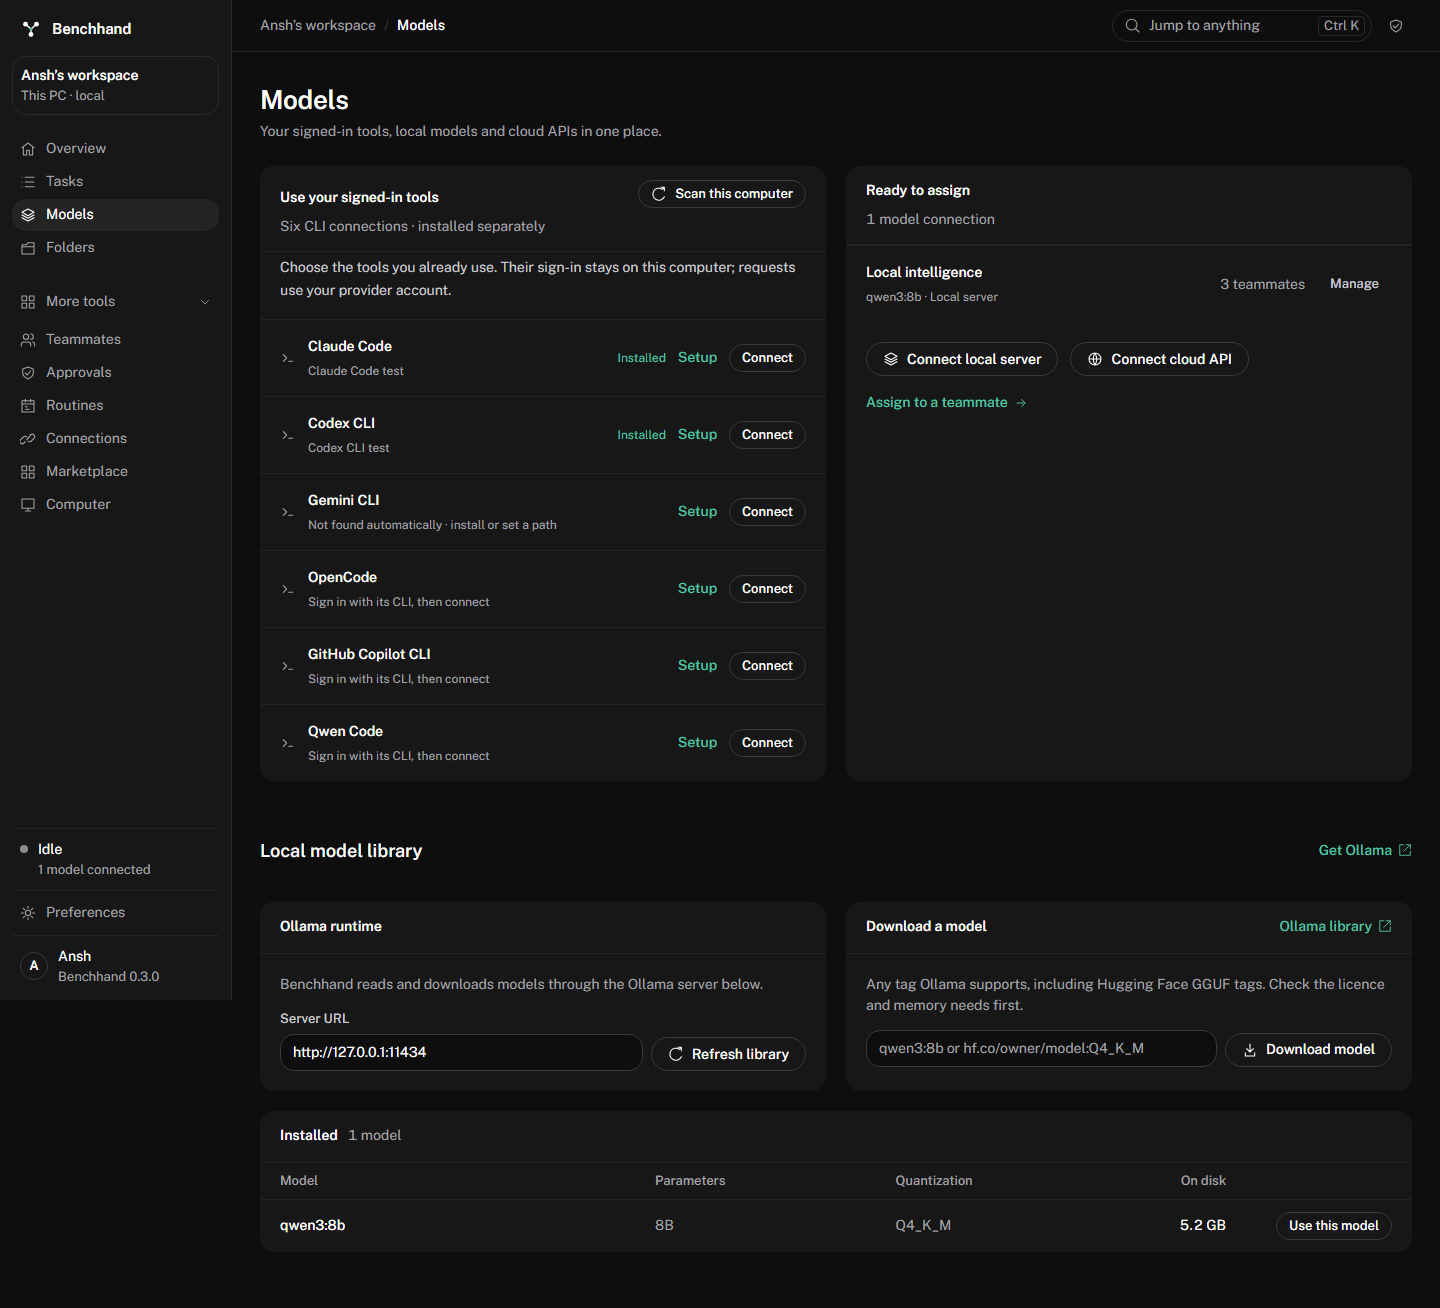
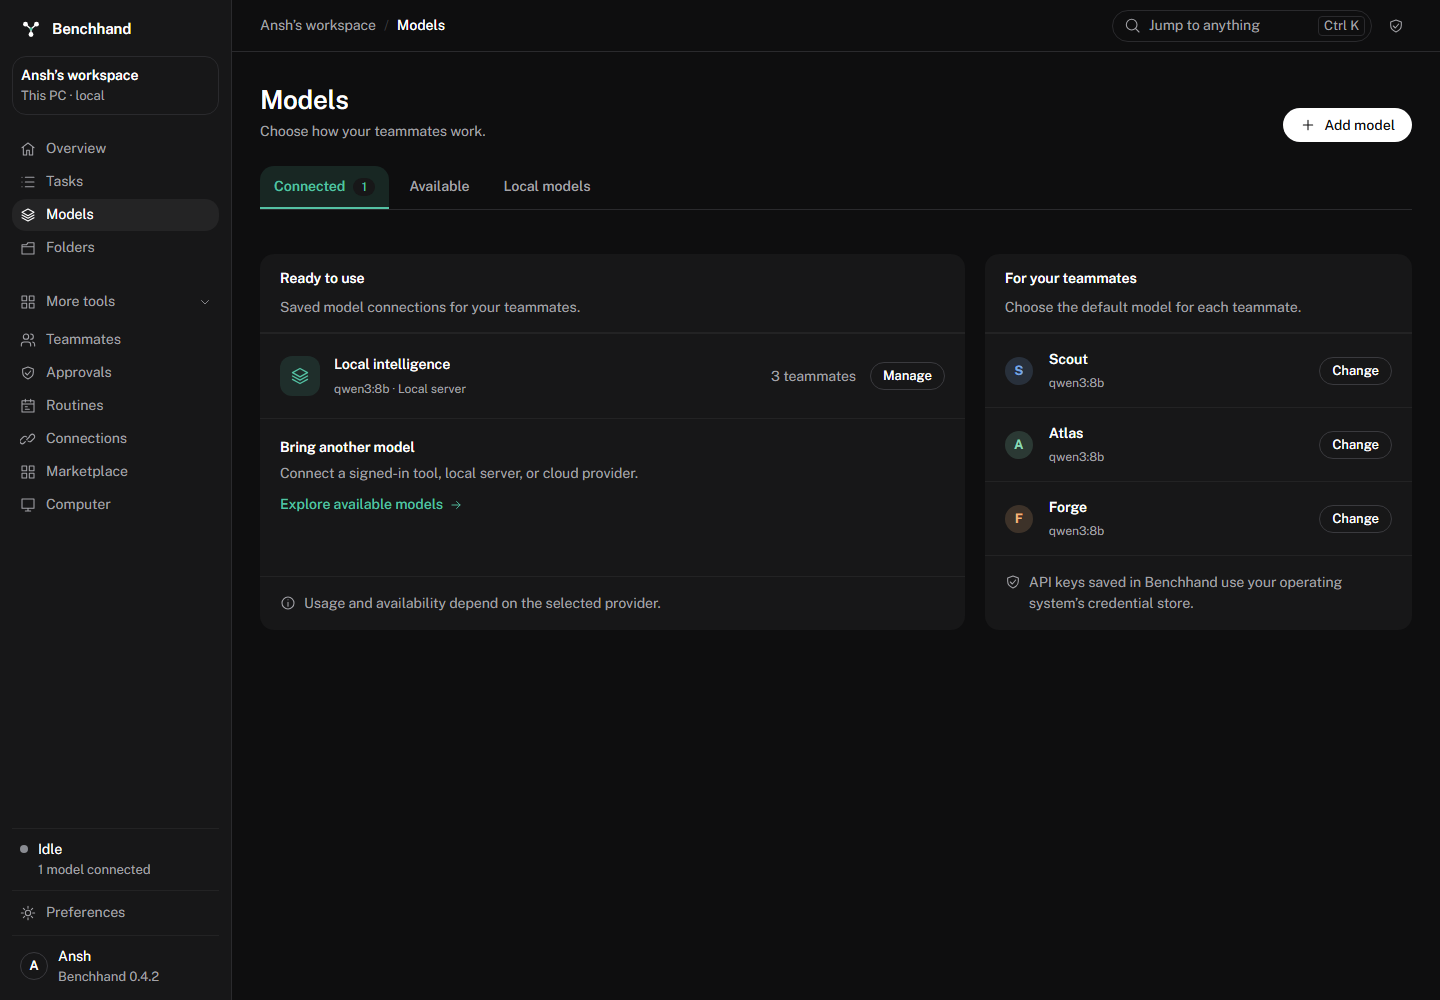
Make model connections and assignments easier to navigate

diff --git a/frontend/app.js b/frontend/app.js
@@ -90,7 +90,8 @@ let data = {
   modelHost = "http://127.0.0.1:11434",
   installedModels = [],
   libraryLoaded = false,
-  libraryError = "";
+  libraryError = "",
+  modelTab = "connected";
 let modelClients = [], clientScan = "idle", clientError = "", activityFilter = "all", moreTools = localStorage.getItem("benchhand-more-tools") === "1";
 const clientNames = { claude: "Claude Code", codex: "Codex CLI", gemini: "Gemini CLI", opencode: "OpenCode", copilot: "GitHub Copilot CLI", qwen: "Qwen Code" };
 const clientDocs = {
@@ -914,8 +915,12 @@ const bytesLabel = (bytes) =>
     ? `${(bytes / 1e9).toFixed(1)} GB`
     : `${Math.round(bytes / 1e6)} MB`;
 function modelsView() {
+  const count = data.connections.filter((c) => c.kind === "model").length;
+  return `${heading("Models", "Choose how your teammates work.", `<button class="button primary" data-action="model-tab" data-tab="available">${icon("plus")} Add model</button>`)}<div class="model-tabs" role="group" aria-label="Model views">${[["connected", `Connected <span class="model-tab-count">${count}</span>`], ["available", "Available"], ["local", "Local models"]].map(([id,label]) => `<button class="model-tab ${modelTab === id ? "active" : ""}" aria-pressed="${modelTab === id}" data-action="model-tab" data-tab="${id}">${label}</button>`).join("")}</div>${modelTab === "connected" ? modelHub() : modelTab === "available" ? availableModels() : modelLibrary()}`;
+}
+function modelLibrary() {
   const downloads = data.downloads || [];
-  return `${heading("Models", "Your signed-in tools, local models and cloud APIs in one place.")}<div class="model-hub">${modelHub()}</div><div class="library-heading"><h2>Local model library</h2><button class="text-button" data-action="external" data-url="https://ollama.com/download">Get Ollama ${icon("external")}</button></div>
+  return `<div class="library-heading"><h2>Local model library</h2><button class="text-button" data-action="external" data-url="https://ollama.com/download">Get Ollama ${icon("external")}</button></div>
   <div class="grid one-one"><section class="panel library-runtime">${section("Ollama runtime")}<p class="subtle">Benchhand reads and downloads models through the Ollama server below.</p><div class="runtime-address"><label class="field"><span>Server URL</span><input id="model-host" type="url" value="${esc(modelHost)}" aria-label="Ollama server URL"></label>${button("load-library", "Refresh library", "refresh", "", "button secondary")}</div></section>
   <section class="panel download-panel">${section("Download a model", "", `<button class="text-button" data-action="external" data-url="https://ollama.com/library">Ollama library ${icon("external")}</button>`)}<p class="subtle">Any tag Ollama supports, including Hugging Face GGUF tags. Check the licence and memory needs first.</p><form id="download-form"><input name="model" aria-label="Model to download" placeholder="qwen3:8b or hf.co/owner/model:Q4_K_M" required maxlength="200">${button("", "Download model", "download", 'type="submit"', "button secondary")}</form></section></div>
   ${downloads.length ? `<section class="panel">${section("Downloads")}<div class="download-list">${downloads.map((d) => `<article class="download-row"><div><strong>${esc(d.model)}</strong><small>${esc(d.status)}${d.total ? ` · <span class="num">${bytesLabel(Number(d.completed))} of ${bytesLabel(Number(d.total))}</span>` : ""}</small>${d.total ? `<progress max="${Number(d.total)}" value="${Number(d.completed)}" aria-label="Download progress"></progress>` : ""}</div>${d.state === "downloading" ? button("cancel-download", "Cancel", "close", `data-id="${esc(d.id)}"`, "button quiet small") : d.state === "completed" ? button("connect-installed", "Use model", "plus", `data-model="${esc(d.model)}"`, "button secondary small") : `<span class="pill canceled">${esc(d.state === "canceled" ? "Canceled" : d.state)}</span>`}</article>`).join("")}</div></section>` : ""}
@@ -1101,9 +1106,20 @@ async function scanModelClients() {
   catch (e) { clientScan = "error"; clientError = String(e); }
   render();
 }
+function modelConnectionType(c) {
+  if (c.config.protocol === "cli") return "Signed-in CLI";
+  try {
+    const host = new URL(c.config.baseUrl).hostname;
+    if (host === "localhost" || host === "[::1]" || /^127\./.test(host)) return "Local server";
+  } catch {}
+  return "API connection";
+}
 function modelHub() {
   const connections = data.connections.filter((c) => c.kind === "model");
-  return `<section class="panel model-clients">${section("Use your signed-in tools", "Six CLI connections · installed separately", button("scan-model-clients", clientScan === "scanning" ? "Scanning…" : "Scan this computer", "refresh", clientScan === "scanning" ? "disabled" : "", "button secondary small"))}<p class="model-intro">Choose the tools you already use. Their sign-in stays on this computer; requests use your provider account.</p><div class="client-list">${Object.entries(clientNames).map(([id, name]) => { const found = modelClients.find((c) => c.provider === id); return `<article class="client-row"><span class="client-name">${icon("terminal")}<span><strong>${name}</strong><small>${found?.installed ? esc(found.version) : clientScan === "scanning" ? "Checking installation…" : found ? "Not found automatically · install or set a path" : "Sign in with its CLI, then connect"}</small></span></span><span class="client-status ${found?.installed ? "available" : ""}">${found?.installed ? "Installed" : ""}</span><span class="client-actions"><button class="text-button small" data-action="open-cli-docs" data-provider="${id}">Setup<span class="visually-hidden"> ${name}</span></button><button class="button secondary small" data-action="connect-cli" data-provider="${id}">Connect<span class="visually-hidden"> ${name}</span></button></span></article>`; }).join("")}</div>${clientError ? `<p class="model-intro" role="alert">${esc(clientError)}</p>` : ""}</section><section class="panel connected-models">${section("Ready to assign", plural(connections.length, "model connection"))}${connections.length ? `<div class="model-connections">${connections.map((c) => `<article class="model-connection"><div><strong>${esc(c.label)}</strong><small>${esc(c.config.model)}${c.config.reasoningEffort && c.config.reasoningEffort !== "default" ? ` · ${esc(c.config.reasoningEffort)} effort` : ""} · ${c.config.protocol === "cli" ? "Signed-in CLI" : /localhost|127\.0\.0\.1/.test(c.config.baseUrl || "") ? "Local server" : "API connection"}</small></div><span class="subtle">${plural(data.bots.filter((b) => b.providerId === c.id).length, "teammate")}</span><button class="button quiet small" data-action="edit-connection" data-id="${esc(c.id)}">Manage</button></article>`).join("")}</div>` : `<p class="panel-empty">Connect a CLI, local server, or cloud API below. Then choose it in a teammate’s settings.</p>`}<div class="model-shortcuts"><button class="button secondary" data-action="connect-model" data-preset="ollama">${icon("model")} Connect local server</button><button class="button secondary" data-action="connect-model" data-preset="openai">${icon("globe")} Connect cloud API</button><button class="text-button" data-action="navigate" data-page="team">Assign to a teammate ${icon("arrow")}</button></div></section>`;
+  return `<div class="model-overview"><section class="panel connected-models">${section("Ready to use", "Saved model connections for your teammates.")}${connections.length ? `<div class="model-connections">${connections.map((c) => `<article class="model-connection"><span class="model-symbol">${icon(modelConnectionType(c) === "Signed-in CLI" ? "terminal" : modelConnectionType(c) === "Local server" ? "model" : "globe")}</span><div><strong>${esc(c.label)}</strong><small>${esc(c.config.model)}${c.config.reasoningEffort && c.config.reasoningEffort !== "default" ? ` · ${esc(c.config.reasoningEffort)} effort` : ""} · ${modelConnectionType(c)}</small></div><span class="subtle model-assigned">${plural(data.bots.filter((b) => b.providerId === c.id).length, "teammate")}</span><button class="button secondary small" data-action="edit-connection" data-id="${esc(c.id)}">Manage</button></article>`).join("")}</div>` : `<div class="model-empty"><p>No models connected yet. Choose a signed-in tool, local server, or cloud API to get started.</p><button class="button secondary" data-action="model-tab" data-tab="available">${icon("plus")} Add a model</button></div>`}${connections.length ? `<div class="model-next"><strong>Bring another model</strong><p>Connect a signed-in tool, local server, or cloud provider.</p><button class="text-button" data-action="model-tab" data-tab="available">Explore available models ${icon("arrow")}</button></div>` : ""}<p class="model-footnote">${icon("info")} Usage and availability depend on the selected provider.</p></section><aside class="panel model-assignments">${section("For your teammates", "Choose the default model for each teammate.")}${data.bots.length ? data.bots.map((b) => `<div class="model-assignment">${avatar(b)}<span><strong>${esc(b.name)}</strong><small>${esc(modelName(b))}</small></span><button class="button secondary small" data-action="edit-bot" data-id="${esc(b.id)}" aria-label="Change model for ${esc(b.name)}">Change</button></div>`).join("") : `<p class="panel-empty">Create a teammate to assign a model.</p>`}<p class="model-footnote">${icon("approvals")} API keys saved in Benchhand use your operating system’s credential store.</p></aside></div>`;
+}
+function availableModels() {
+  return `<div class="available-models"><section class="panel model-clients">${section("Use your signed-in tools", "Installed separately · use your existing sign-in", button("scan-model-clients", clientScan === "scanning" ? "Scanning…" : "Scan this computer", "refresh", clientScan === "scanning" ? "disabled" : "", "button secondary small"))}<p class="model-intro">Choose a tool you already use. Requests use its provider account.</p><div class="client-list">${Object.entries(clientNames).map(([id, name]) => { const found = modelClients.find((c) => c.provider === id); return `<article class="client-row"><span class="client-name">${icon("terminal")}<span><strong>${name}</strong><small>${found?.installed ? esc(found.version) : clientScan === "scanning" ? "Checking installation…" : found ? "Not found automatically · install or set a path" : "Sign in with its CLI, then connect"}</small></span></span><span class="client-status ${found?.installed ? "available" : ""}">${found?.installed ? "Installed" : ""}</span><span class="client-actions"><button class="text-button small" data-action="open-cli-docs" data-provider="${id}">Setup<span class="visually-hidden"> ${name}</span></button><button class="button secondary small" data-action="connect-cli" data-provider="${id}">Connect<span class="visually-hidden"> ${name}</span></button></span></article>`; }).join("")}</div>${clientError ? `<p class="model-intro" role="alert">${esc(clientError)}</p>` : ""}</section><section class="panel model-other">${section("Connect another provider", "Use a local server or an API key.")}<div class="model-shortcuts"><button class="button secondary" data-action="connect-model" data-preset="ollama">${icon("model")} Connect local server</button><button class="button secondary" data-action="connect-model" data-preset="openai">${icon("globe")} Connect cloud API</button></div></section></div>`;
 }
 function activityEvent(event) {
   try { const parsed = JSON.parse(event.message); if (parsed && typeof parsed.kind === "string") return { ...event, ...parsed }; } catch {}
@@ -1269,6 +1285,13 @@ async function handleAction(el) {
       break;
     case "scan-model-clients":
       await scanModelClients();
+      break;
+    case "model-tab":
+      if (["connected", "available", "local"].includes(el.dataset.tab)) {
+        modelTab = el.dataset.tab;
+        render();
+        document.querySelector(`.model-tab[data-tab="${modelTab}"]`)?.focus();
+      }
       break;
     case "open-cli-docs":
       await invoke("open_external", {url:clientDocs[sheet.querySelector("#cli-provider")?.value || el.dataset.provider]});
@@ -1700,6 +1723,7 @@ document.addEventListener("submit", async (event) => {
     if (form.id === "connection-form") {
       await invoke("save_connection", { input: connectionInput() });
       closeSheet();
+      if (page === "models") modelTab = "connected";
       await refresh();
       notify("Connected and verified.");
     } else if (form.id === "bot-form") {

diff --git a/tests/app.spec.js b/tests/app.spec.js
@@ -47,6 +47,7 @@ test("folders connect through the picker, target a task and disconnect without d
 test("Codex models and supported effort are visible, saved and restored", async ({page}) => {
   await nativeFixture(page);
   await page.locator("nav").getByRole("button", {name:"Models",exact:true}).click();
+  await page.getByRole("button", {name:"Available",exact:true}).click();
   await page.getByRole("button", {name:"Connect Codex CLI",exact:true}).click();
   await expect(page.locator("#cli-catalog-status")).toContainText("1 models reported");
   await expect(page.locator("#cli-custom-model")).toBeHidden();
@@ -68,6 +69,7 @@ test("Codex models and supported effort are visible, saved and restored", async 
 test("optional clients remain discoverable and Gemini and Qwen keep client effort defaults", async ({page}) => {
   await nativeFixture(page);
   await page.locator("nav").getByRole("button", {name:"Models",exact:true}).click();
+  await page.getByRole("button", {name:"Available",exact:true}).click();
   await expect(page.locator(".client-row")).toHaveCount(6);
   for(const provider of ["OpenCode","GitHub Copilot CLI","Qwen Code","Gemini CLI"]) {
     await page.getByRole("button", {name:`Connect ${provider}`,exact:true}).click();
@@ -77,9 +79,21 @@ test("optional clients remain discoverable and Gemini and Qwen keep client effor
   }
 });
 
+test("model overview shows assignments and lets a teammate change its model", async ({ page }) => {
+  await nativeFixture(page);
+  await page.locator("nav").getByRole("button", {name:"Models", exact:true}).click();
+  await expect(page.getByRole("heading", {name:"Ready to use", exact:true})).toBeVisible();
+  const assignment = page.locator(".model-assignment").filter({hasText:"Scout"});
+  await expect(assignment).toContainText("qwen3:8b");
+  await assignment.getByRole("button", {name:"Change model for Scout"}).click();
+  await expect(page.getByRole("dialog")).toBeVisible();
+  await expect(page.locator("dialog [name=providerId]")).toHaveValue("model-1");
+});
+
 test("signed-in CLI models connect without copying credentials and remain editable", async ({ page }) => {
   await nativeFixture(page);
   await page.locator("nav").getByRole("button", { name: "Models", exact: true }).click();
+  await page.getByRole("button", {name:"Available",exact:true}).click();
   await expect(page.locator(".client-row").first()).toContainText("Installed");
   await page.getByRole("button", { name: "Connect Claude Code", exact: true }).click();
   await expect(page.locator("dialog [name=secret]")).toHaveCount(0);
@@ -345,7 +359,7 @@ async function nativeFixture(page, { setup = true, connected = true, tools = tru
               os: "windows",
               arch: "x86_64",
               threads: 16,
-              version: "0.3.0",
+              version: "0.4.2",
             },
           };
       const persist = () =>
@@ -1042,6 +1056,7 @@ test("model library downloads, reports progress, cancels, and connects installed
     .locator("nav")
     .getByRole("button", { name: "Models" })
     .click();
+  await page.getByRole("button", {name:"Local models",exact:true}).click();
   await expect(page.locator(".catalog-card h3")).toHaveText("qwen3:8b");
   await page
     .getByRole("textbox", { name: "Model to download" })
@@ -1183,11 +1198,13 @@ test("capture the implemented desktop experience", async ({ page }) => {
     .locator("nav")
     .getByRole("button", { name: "Models" })
     .click();
-  await expect(page.locator(".catalog-card h3")).toHaveText("qwen3:8b");
+  await expect(page.getByRole("heading", {name:"Ready to use", exact:true})).toBeVisible();
   await page.screenshot({
     path: "design/screenshots/models.png",
     fullPage: true,
   });
+  await page.getByRole("button", {name:"Local models",exact:true}).click();
+  await expect(page.locator(".catalog-card h3")).toHaveText("qwen3:8b");
   await page
     .locator("nav")
     .getByRole("button", { name: "Marketplace" })

diff --git a/frontend/styles.css b/frontend/styles.css
@@ -3199,6 +3199,45 @@ dialog[open] {
   .activity-transcript .section-action { width: 100%; margin: 0; }
 }
 
+/* Model connections first, with a clear path to change each assignment. */
+.model-tabs { display: flex; gap: 6px; border-bottom: 1px solid var(--border); margin-bottom: 24px; overflow-x: auto; }
+.model-tab { display: inline-flex; align-items: center; gap: 8px; flex: none; padding: 10px 14px; border-bottom: 2px solid transparent; border-radius: var(--radius) var(--radius) 0 0; color: var(--muted); font-weight: 550; }
+.model-tab:hover { color: var(--text); background: var(--raised); }
+.model-tab.active { color: var(--accent-ink); background: var(--accent-soft); border-bottom-color: var(--accent); }
+.model-tab-count { min-width: 22px; text-align: center; border-radius: 999px; background: var(--surface); font-size: 12px; }
+.model-overview { display: grid; grid-template-columns: minmax(0, 1.65fr) minmax(280px, 1fr); align-items: stretch; gap: 20px; }
+.model-overview > .panel { display: flex; flex-direction: column; }
+.model-overview .model-footnote { margin-top: auto; }
+.model-overview .section-heading { flex-wrap: wrap; gap: 8px; }
+.model-overview .section-heading > .subtle { flex-basis: 100%; }
+.model-overview .model-connection { grid-template-columns: 40px minmax(0, 1fr) auto auto; gap: 14px; padding: 20px var(--pad); }
+.model-symbol { display: grid; place-items: center; width: 40px; height: 40px; border-radius: 12px; color: var(--accent-ink); background: var(--accent-soft); }
+.model-symbol .icon { width: 20px; height: 20px; }
+.model-assignment { display: grid; grid-template-columns: 32px minmax(0, 1fr) auto; align-items: center; gap: 12px; padding: 15px var(--pad); border-top: 1px solid var(--rule); }
+.model-assignment span { min-width: 0; }
+.model-assignment strong, .model-assignment small { display: block; overflow-wrap: anywhere; }
+.model-assignment small { margin-top: 4px; color: var(--muted); font-size: 12px; }
+.model-empty { padding: 20px var(--pad); color: var(--text-2); }
+.model-empty .button { margin-top: 16px; }
+.model-next { padding: 18px var(--pad); border-top: 1px solid var(--rule); }
+.model-next p { margin: 5px 0 10px; color: var(--muted); line-height: 1.5; }
+.model-footnote { display: flex; align-items: flex-start; gap: 8px; padding: 16px var(--pad); border-top: 1px solid var(--rule); color: var(--muted); line-height: 1.5; }
+.model-footnote .icon { flex: none; margin-top: 2px; }
+.available-models { display: grid; gap: 20px; }
+.available-models .section-heading { flex-wrap: wrap; gap: 8px 12px; }
+.available-models .section-heading > .subtle { flex-basis: 100%; order: 3; }
+@media (max-width: 1050px) { .model-overview { grid-template-columns: minmax(0, 1fr); } }
+@media (max-width: 640px) {
+  .model-tabs { gap: 2px; }
+  .model-tab { flex: 1 1 auto; justify-content: center; padding: 10px 6px; font-size: 12px; }
+  .available-models .client-name, .available-models .client-actions { grid-column: 1 / -1; }
+  .available-models .client-actions { display: flex; gap: 16px; margin-left: 28px; }
+  .model-overview .model-connection { grid-template-columns: 36px minmax(0, 1fr) auto; gap: 10px; }
+  .model-overview .model-connection > .model-assigned { grid-column: 2; grid-row: 2; }
+  .model-overview .model-connection > .button { grid-column: 3; grid-row: 1 / 3; }
+  .model-symbol { width: 36px; height: 36px; }
+}
+
 /* An empty workspace leads to one real task, before operational dashboards appear. */
 .first-run-layout { display: grid; grid-template-columns: minmax(0, 1.5fr) minmax(260px, 1fr); gap: 32px; align-items: start; }
 .first-run-copy { color: var(--text-2); line-height: 1.6; padding: 8px var(--pad) 24px; max-width: 60ch; }
